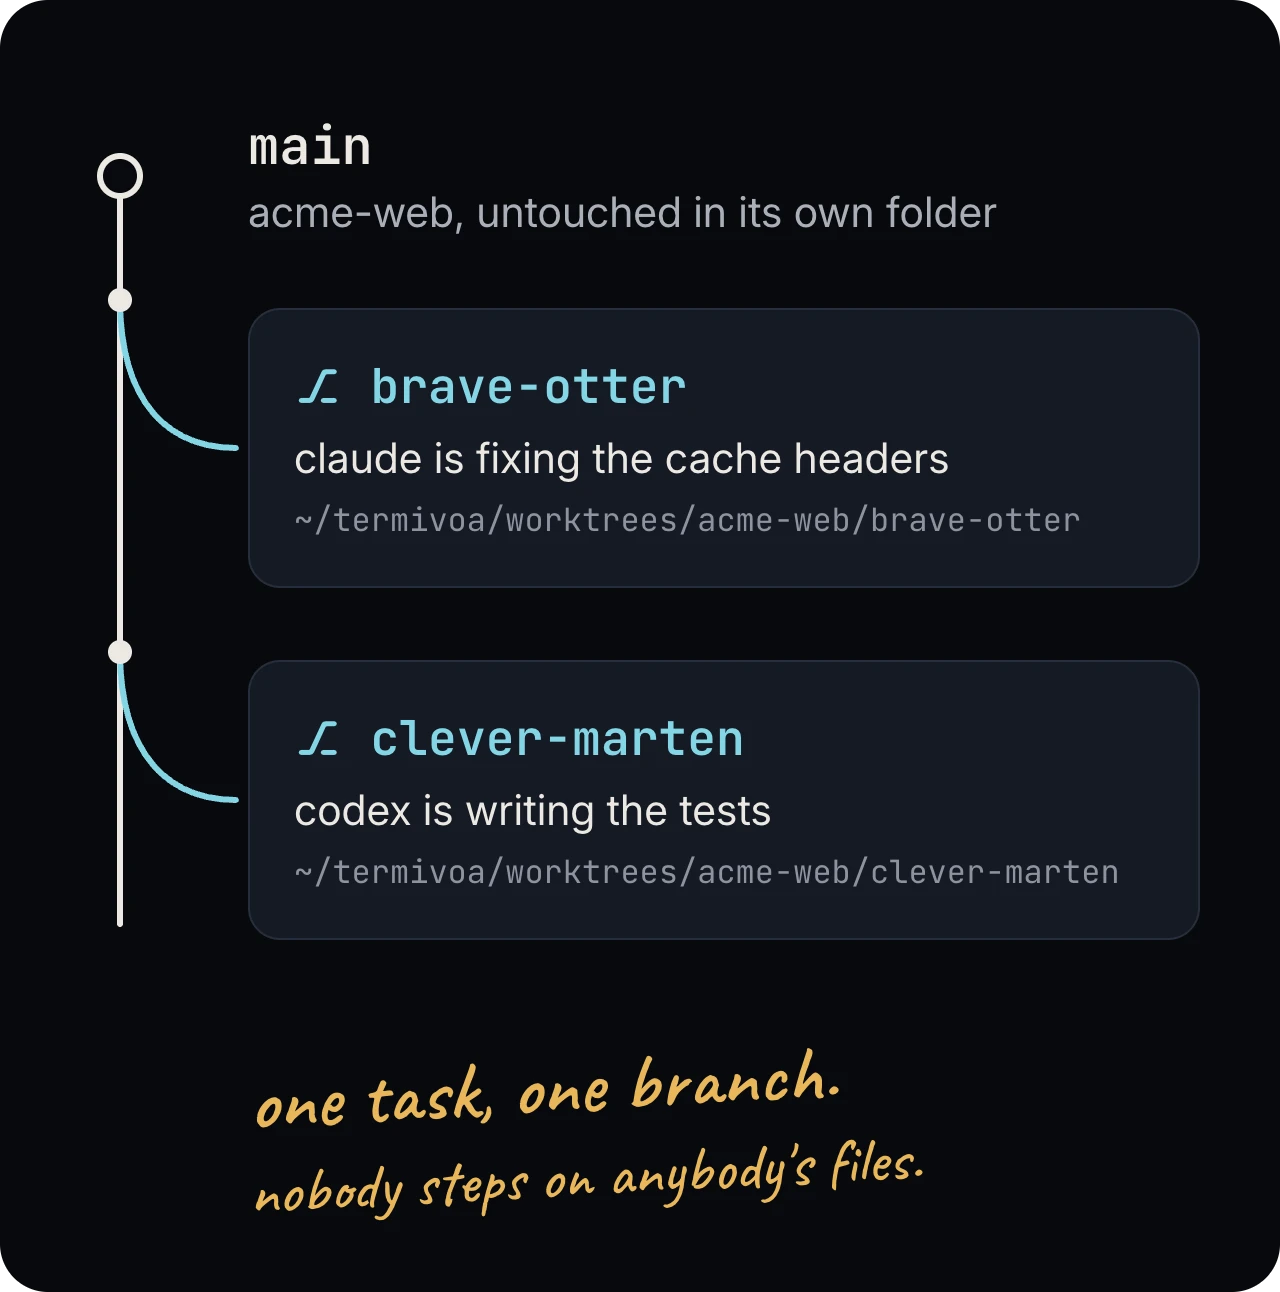
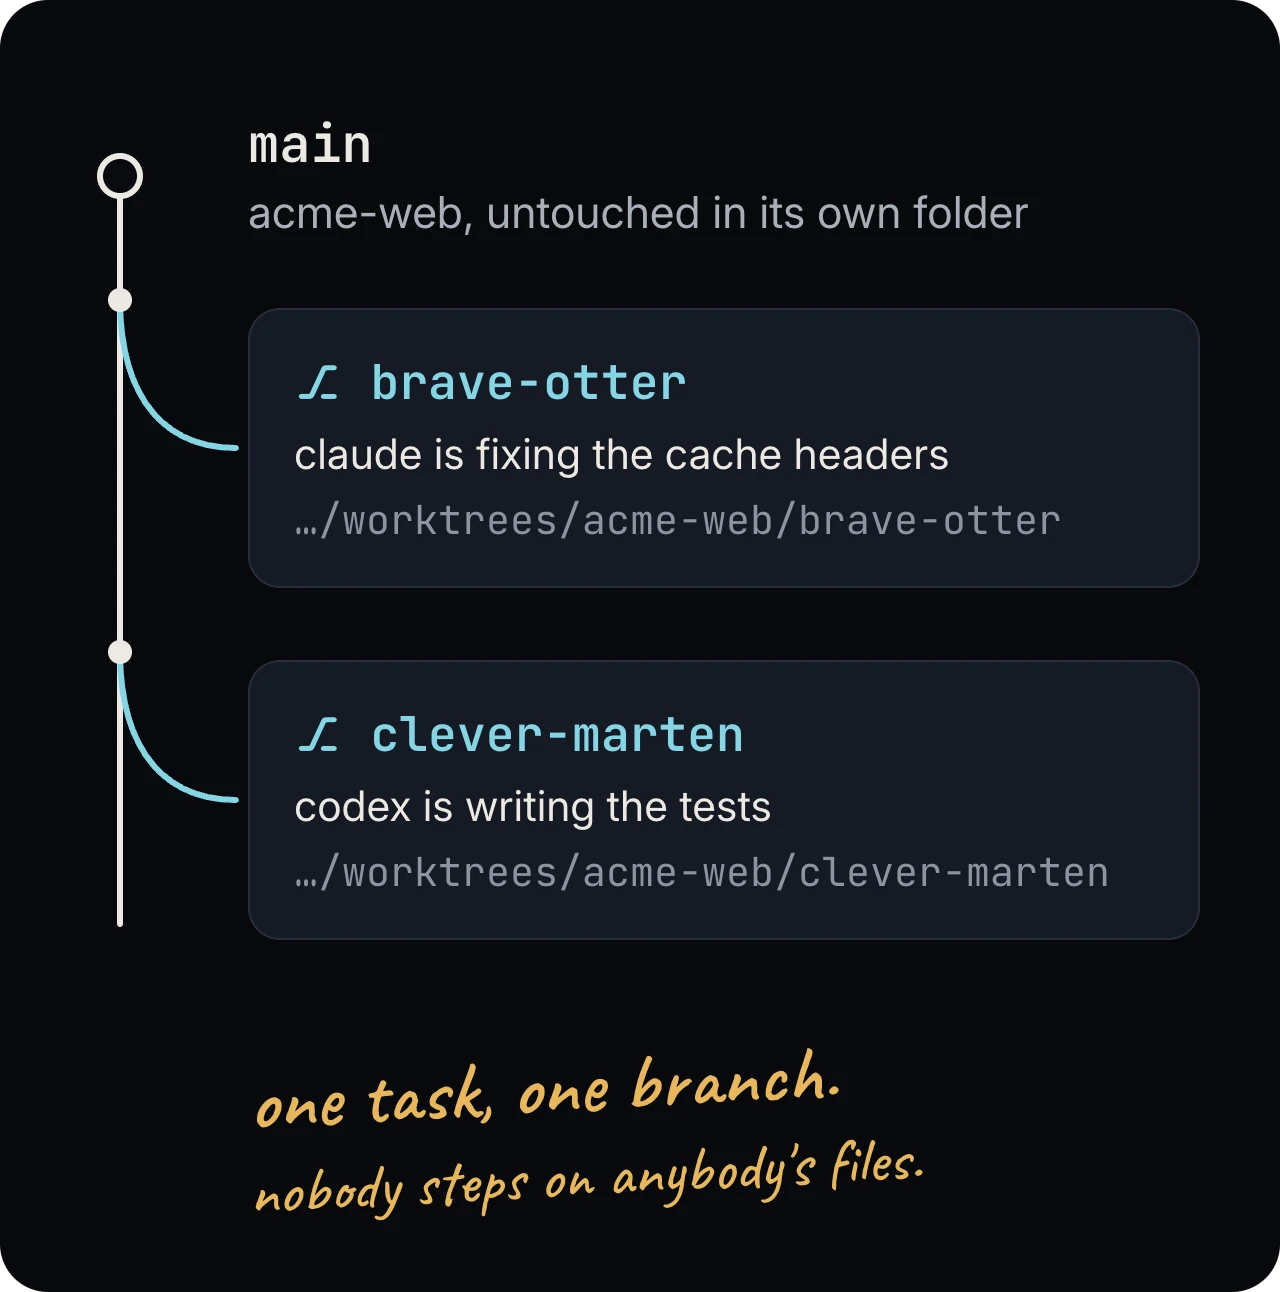
docs: larger illustration text, full alt text, and rule 23 allows illustrations
Small text in the illustrations is larger so it reads at 390 px, the alt
text repeats every note in the images, and rule 23 now allows a few
brand-style illustrations whose words match the app exactly.

diff --git a/AGENTS.md b/AGENTS.md
@@ -28,7 +28,7 @@ These rules apply throughout this repository.
     - Each page opens with a one-sentence answer that names Termivoa, and has a 120–160 character `description` that names Termivoa, a `lastUpdated` date, and question- or task-style headings whose sections stand alone.
     - Put facts in tables. Use the app's exact labels and one term for one thing (session, tab, control, session menu). Add "Common questions" only where users really ask.
     - Check every claim against the code before it ships, and never overstate security. Mark features that are not in the latest release tag as **Next beta** (`git log <tag>..HEAD`).
-    - Add an image only where it shows that a step worked: real screenshots from `scripts/docs-screenshots/` (isolated dev stack, demo data only, never real names, hosts or paths), saved as small WebP files in `site/src/assets/docs/` (phone screens named `phone-*.webp`), with alt text that says what is on screen. Diagrams must stay readable at 390 px.
+    - Add an image only where it shows that a step worked or explains an idea: real screenshots from `scripts/docs-screenshots/` (isolated dev stack, demo data only, never real names, hosts or paths), or a few diagrams and illustrations in the landing-page style (night palette, one cyan signal, amber hand notes; designed in Paper) whose words match the app and CLI exactly. Save them as small WebP files in `site/src/assets/docs/` (`phone-*.webp` for phone screens, `illo-*.webp` for illustrations), with alt text that says what is on screen and repeats any words in the image. Text in diagrams and illustrations must stay readable at 390 px (about 11 px or more on screen).
     - Keep `llms.txt`, the per-page `.md` copies and `robots.txt` working. Do not add FAQPage/HowTo schema, hidden text or bot-only content.
     - Before merging, `cd site && pnpm install --frozen-lockfile --ignore-workspace && npx astro build` must pass; it fails on a broken docs link or anchor (starlight-links-validator).
 

diff --git a/site/src/content/docs/docs/quick-start.md b/site/src/content/docs/docs/quick-start.md
@@ -43,7 +43,7 @@ The link works once and expires after two minutes. Run `pterm pair` for a new on
 The phone shows a code, such as `485-431`. Your computer shows its code and asks `Approve? [y/N]`.
 Type `y` if the codes match, `n` if not.
 
-![Your computer prints "Phone 'My iPhone' shows code 482-913. Approve? [y/N]" and your phone asks "Does your computer show this code?" above the same six digits; a hand-written note says: same six digits? type y.](../../../assets/docs/illo-pairing.webp)
+![Your computer prints "Phone 'My iPhone' shows code 482-913. Approve? [y/N]" and your phone asks "Does your computer show this code?" above the same six digits; a hand-written note says: same six digits? type y. Below it: No match? Type n.](../../../assets/docs/illo-pairing.webp)
 
 On iPhone, tap **Share**, then **Add to Home Screen**, to get notifications.
 

diff --git a/site/src/content/docs/docs/guides/worktrees.md b/site/src/content/docs/docs/guides/worktrees.md
@@ -10,7 +10,7 @@ Termivoa can start a new task in a git worktree: a second folder of your reposit
 Not released yet. This is not in `v0.1.0-beta.2`.
 :::
 
-![main stays untouched while two worktrees branch off it: brave-otter, where Claude fixes the cache headers, and clever-marten, where Codex writes the tests, each in its own folder under ~/termivoa/worktrees/acme-web; a hand-written note says: one task, one branch.](../../../../assets/docs/illo-worktrees.webp)
+![main stays untouched while two worktrees branch off it: brave-otter, where Claude fixes the cache headers, and clever-marten, where Codex writes the tests, each in its own folder under …/worktrees/acme-web; a hand-written note says: one task, one branch. nobody steps on anybody's files.](../../../../assets/docs/illo-worktrees.webp)
 
 ## Make a worktree
 
